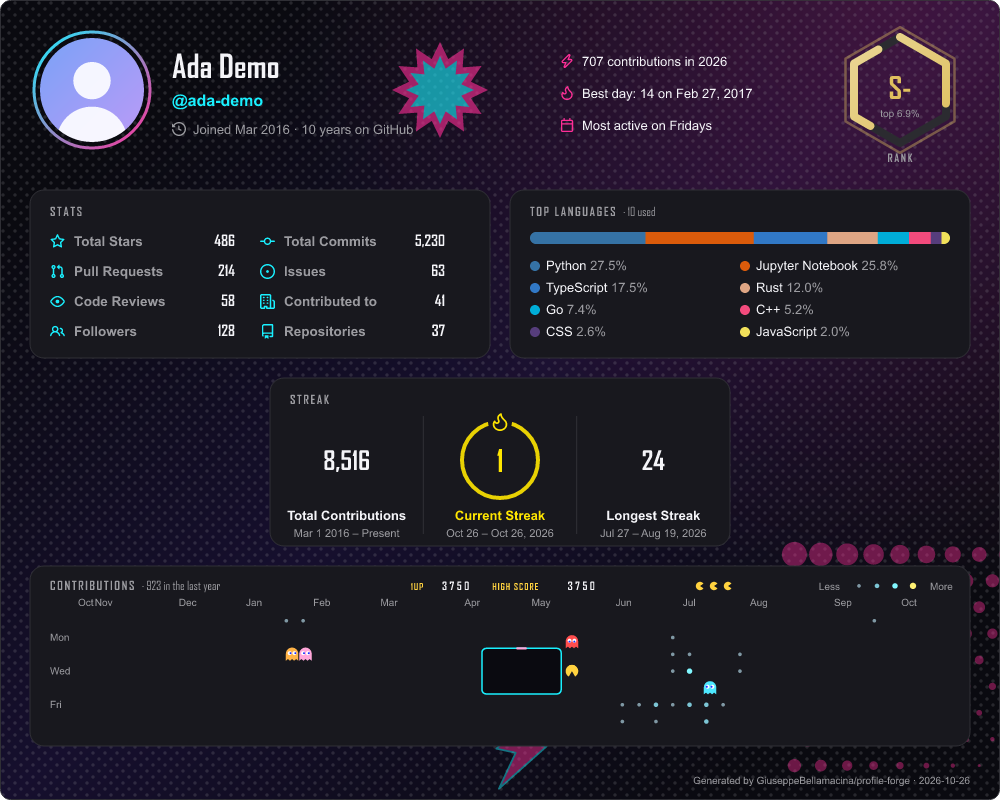
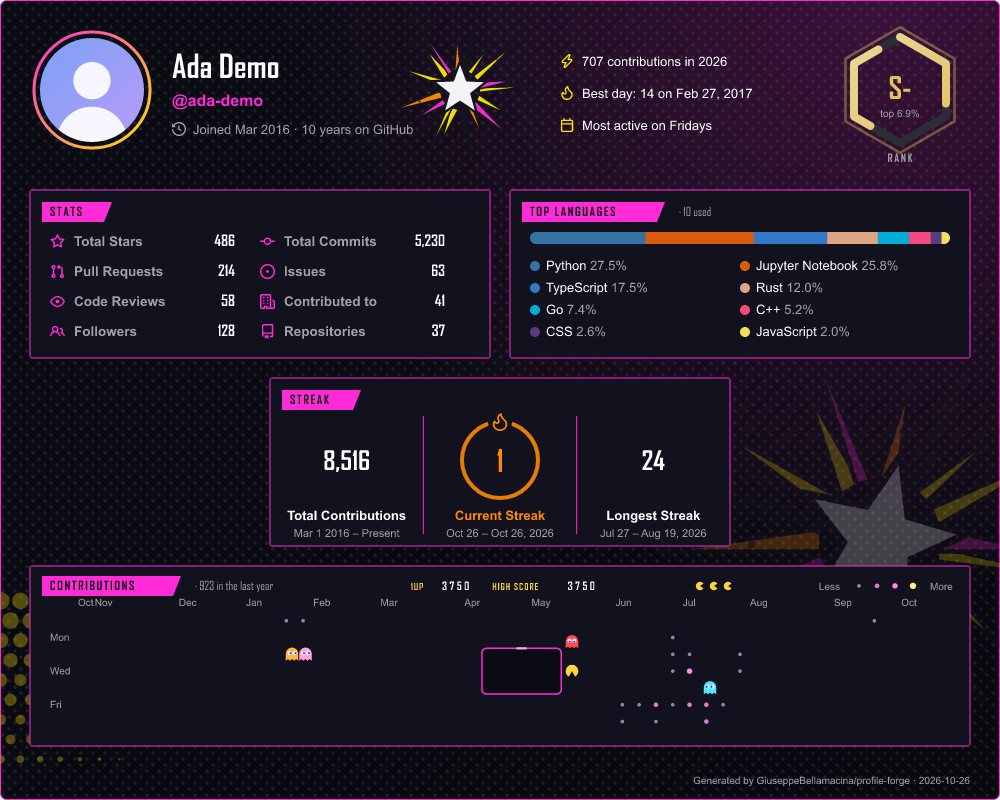
hero-x after the key art (white, black outlines, shards of magenta/yellow/orange/blue) with a night version, the shards motif, Pac-Man dots darkened on light cards, art fades in complete in static frames

diff --git a/src/render.js b/src/render.js
@@ -880,7 +880,8 @@ function heatmapSection(d, X, W = 940) {
         const [cx, cy] = centre(w, i);
         const lv = maze.pellet[k];
         const power = maze.power.has(k);
-        const col = mix(c.heat[lv], "#ffffff", power ? 0.7 : 0.45);
+        const light = c.base === "light"; // on a light card the dots are darkened, not lightened, or they vanish
+        const col = mix(c.heat[lv], light ? "#000000" : "#ffffff", power ? (light ? 0.25 : 0.7) : light ? 0.25 : 0.45);
         const pulse = power ? A.loop({ "0%,100%": "opacity:1", "50%": "opacity:.3" }, { dur: 0.7, ease: "steps(1)" }) : "";
         const dotSvg = `<circle cx="${r3(cx)}" cy="${r3(cy)}" r="${power ? 4.8 : r3(1.4 + lv * 0.45)}" fill="${col}"${pulse}><title>${n} · ${key}</title></circle>`;
         const eats = eatT.get(k);
@@ -1057,7 +1058,7 @@ function heatmapSection(d, X, W = 940) {
     <text x="${840 + W - 940}" y="698" text-anchor="end" font-size="10" fill="${c.muted}">${esc(tr("less"))}</text>
     ${
       pac
-        ? [1, 2, 3, 4].map((lv, i) => `<circle cx="${r3(846 + W - 940 + 13 + i * 18)}" cy="693.9" r="${r3(1.4 + lv * 0.45)}" fill="${mix(c.heat[lv], "#ffffff", 0.45)}"/>`).join("") // the pellets: a bigger dot for a busier day
+        ? [1, 2, 3, 4].map((lv, i) => `<circle cx="${r3(846 + W - 940 + 13 + i * 18)}" cy="693.9" r="${r3(1.4 + lv * 0.45)}" fill="${mix(c.heat[lv], c.base === "light" ? "#000000" : "#ffffff", c.base === "light" ? 0.25 : 0.45)}"/>`).join("") // the pellets: a bigger dot for a busier day
         : c.heat.map((h, i) => cellShape(o.cell === "mixed" ? "square" : o.cell, 846 + W - 940 + i * 16 - 0.75, 687.25, h, { lvl: i, dim: c.heat[0] })).join("")
     }
     <text x="${930 + W - 940}" y="698" font-size="10" fill="${c.muted}">${esc(tr("more"))}</text>
@@ -1526,9 +1527,10 @@ export function render(d, { theme = "dark", t, fontCss = "", k = normalize(), co
   const bgImage = bg.image && images[bg.image]
     ? `<image href="${images[bg.image]}" width="${W}" height="${SH}" opacity="${bg.imageOpacity}" preserveAspectRatio="xMidYMid ${bg.imageFit === "contain" ? "meet" : "slice"}"/>`
     : "";
-  // the art comes in last: after the sections have finished appearing (their rows come one after the other, each one drawing its own parts)
+  // the art comes in last: after the sections have finished appearing (their rows come one after the other, each one drawing its own parts),
+  // but early enough to be complete in the static frame (PNG / GIF), which shows the animation at DURATION
   A.dt = 0;
-  const artIn = k.decor.length ? A.a(Math.max(0, ...items.map((it) => it.delay)) + 3, 0.8, { o: 0 }) : "";
+  const artIn = k.decor.length ? A.a(Math.min(Math.max(0, ...items.map((it) => it.delay)) + 3, DURATION - 0.8), 0.8, { o: 0 }) : "";
   const over = k.decor.some((it) => it.layer === "front") ? `<g clip-path="url(#dc-clip)"><g${artIn}>${decorSvg("front")}</g></g>` : ""; // built here: its loops add to the style block
   const under = `${bgImage}${bg.glow ? card("url(#glow)") : ""}${pat ? `<g opacity="${bg.patternOpacity ?? pat[3]}">${card("url(#pat)")}</g>` : ""}${k.decor.some((it) => it.layer === "back") ? `<g${artIn}>${decorSvg("back")}</g>` : ""}`;
   return `<svg xmlns="http://www.w3.org/2000/svg" width="${W}" height="${SH}" viewBox="0 0 ${W} ${SH}" font-family="${FB}" role="img" aria-label="GitHub profile card for ${esc(d.login)}">

diff --git a/src/motifs.js b/src/motifs.js
@@ -3,6 +3,7 @@
 // comic halftones, gothic ornaments...) that the themes can lean on. render.js places, scales, rotates and fades them.
 
 import { ANIMATED } from "./motifs-animated.js";
+import { mix } from "./themes.js";
 
 const r2 = (x) => Math.round(x * 100) / 100;
 const polar = (cx, cy, r, deg) => [r2(cx + r * Math.cos((deg * Math.PI) / 180)), r2(cy + r * Math.sin((deg * Math.PI) / 180))];
@@ -38,6 +39,19 @@ export const MOTIFS = {
     const [x1, y1] = polar(50, 50, near, deg), [x2, y2] = polar(50, 50, far, deg);
     return `<path d="M${x1} ${y1}L${x2} ${y2}" stroke-width="${k % 2 ? 1.2 : 2.4}"/>`;
   }).join("")}</g><circle cx="50" cy="50" r="5" fill="${b}"/>`,
+  /** an explosion of shards round a white star, black outlines: the two colours, a yellow and an orange (a pop-art key visual) */
+  shards: (a, b) => {
+    const ink = "#14141c";
+    const fills = [a, "#ffe600", b, "#ff8a00", ink]; // the two colours, and a yellow and an orange of the key art
+    const rays = Array.from({ length: 18 }, (_, k) => {
+      const deg = k * 20 + (k % 3) * 3, far = k % 2 ? 36 : 48 - (k % 4) * 2, half = 7 + (k % 3) * 2;
+      const [x1, y1] = polar(50, 50, 13, deg - half), [x2, y2] = polar(50, 50, 13, deg + half), [tx, ty] = polar(50, 50, far, deg + (k % 2 ? 4 : -3));
+      return `<path d="M${x1} ${y1}L${tx} ${ty}L${x2} ${y2}Z" fill="${fills[k % 5]}" stroke="${ink}" stroke-width="1" stroke-linejoin="miter"/>`;
+    }).join("");
+    const star = Array.from({ length: 10 }, (_, k) => polar(50, 50, k % 2 ? 8 : 19, -90 + 36 * k).join(" ")).join("L");
+    const dots = Array.from({ length: 14 }, (_, k) => { const [x, y] = polar(50, 50, 24 + (k % 5) * 4, k * 26 + 8); return `<circle cx="${x}" cy="${y}" r="0.9" fill="${ink}" opacity=".55"/>`; }).join("");
+    return `${rays}${dots}<path d="M${star}Z" fill="#ffffff" stroke="${ink}" stroke-width="1.6" stroke-linejoin="miter"/>`;
+  },
   /** a pop-art starburst */
   burst: (a, b) => {
     const pts = (r1, r2_) => Array.from({ length: 24 }, (_, k) => polar(50, 50, k % 2 ? r2_ : r1, k * 15).join(" ")).join("L");

diff --git a/src/themes.js b/src/themes.js
@@ -104,7 +104,9 @@ const THEMES = {
   amber: dv("dark", "#0d0800", "#ffb000", "#ffcc33", "#ff8c00", "#ffe066", { muted: "#b37a00", heat: ["#1f1500", "#4d3300", "#805500", "#cc8800", "#ffcc33"] }),
   paper: dv("light", "#fbfaf7", "#1c1c1c", "#2b2b2b", "#8a6d3b", "#b4532a", { heat: ["#ecebe6", "#c9c7bf", "#97948a", "#5e5b53", "#1c1c1c"] }),
   // Inspired by the look of five series (palettes and mood, nothing copied): pair them with the presets of the same name
-  "hero-x": dv("dark", "#0a0a10", "#f4f4f8", "#19f0ff", "#ff2e97", "#ffe600", { bgGradient: "135,#0a0a10,#160f2e,#0a0a10", heat: ["#16161f", "#17435a", "#1096b3", "#19f0ff", "#ffe600"] }),
+  // pop art after the key art of To Be Hero X: white, black outlines and shards of magenta, yellow, orange and blue
+  "hero-x": dv("light", "#fbfbff", "#14141c", "#e0149c", "#1b8ef2", "#ff7a00", { panel: "#ffffff", border: "#14141c", muted: "#5a5a6e", heat: ["#efeaf7", "#ffe94d", "#ffb000", "#ff6a00", "#e0149c"] }),
+  "hero-x-night": dv("dark", "#0b0b14", "#ffffff", "#ff2bd6", "#ffe600", "#ff8a00", { panel: "#12121f", border: "#ff2bd6", heat: ["#17172a", "#4a1a6b", "#c0149c", "#ff2bd6", "#ffe600"] }),
   "shadow-monarch": dv("dark", "#080118", "#e6e0ff", "#7c4dff", "#35d0ff", "#c77dff", { bgGradient: "150,#080118,#170d30,#080118", panel: "#0d0a15", snake: "#efd7da", frame: "#6a43db", heat: ["#150d26", "#2a1a52", "#4b2fa3", "#7c4dff", "#35d0ff"] }),
   "plus-ultra": dv("dark", "#0b1a3a", "#fff7e0", "#ffd21f", "#ff3b30", "#ff7a1a", { bgGradient: "160,#0b1a3a,#123073,#0b1a3a", heat: ["#13244d", "#1c3f8f", "#2a64d6", "#6aa5ff", "#ffd21f"] }),
   dante: dv("dark", "#0e0708", "#f3ece8", "#d11a2a", "#cfd3dc", "#ffb02e", { bgGradient: "145,#0e0708,#2a0b10,#0e0708", heat: ["#1b0c0e", "#4a0f16", "#8f1420", "#d11a2a", "#ff6a4d"] }),

diff --git a/GUIDE.md b/GUIDE.md
@@ -207,7 +207,7 @@ More patterns: `halftone`, `scanlines`, `stripes`, `hex`, `circuit`, `crosses`.
 
 Up to 12 pieces of art on the card, each one a **motif** of the library or an **image** of yours (the file is embedded in the card, like the tech stack icons). The motifs are original line art drawn in the colours of the theme; they are in the spirit of a style (neon city, system windows, comic halftones, gothic ornaments), not copies of anything.
 
-<img src="docs/guide/decor-motifs.png" alt="the 17 motifs: lightning skyline circuit glitch halftone speedlines burst runes hud wings blade moon stars hexgrid reticle bolt barcode">
+<img src="docs/guide/decor-motifs.png" alt="the 18 motifs: lightning shards skyline circuit glitch halftone speedlines burst runes hud wings blade moon stars hexgrid reticle bolt barcode">
 
 ```json
 { "card": { "decor": [
@@ -219,7 +219,7 @@ Up to 12 pieces of art on the card, each one a **motif** of the library or an **
 
 | Key | Values | Default |
 |---|---|---|
-| `motif` or `image` | a motif name (`lightning` `skyline` `circuit` `glitch` `halftone` `speedlines` `burst` `runes` `hud` `wings` `blade` `moon` `stars` `hexgrid` `reticle` `bolt` `barcode`) or the path of an image | one of them is required |
+| `motif` or `image` | a motif name (`lightning` `shards` `skyline` `circuit` `glitch` `halftone` `speedlines` `burst` `runes` `hud` `wings` `blade` `moon` `stars` `hexgrid` `reticle` `bolt` `barcode`) or the path of an image | one of them is required |
 | `x` `y` | the centre, in percent of the card **width** (1 = 10 px): `x` from the left, `y` from the top, or from the bottom with `anchor: "bottom"`; −50–150 and −50–200 | `50` `20` |
 | `anchor` | `top` `bottom` | `top` |
 | `size` | the width of the piece, percent of the card width, 2–150 | `20` |
@@ -688,7 +688,7 @@ A list (`["dracula", "nord"]` → `profile-forge-dracula.svg`, `profile-forge-no
 { "themes": { "dark": "dracula", "light": "gruvbox-light" } }
 ```
 
-There are 79 built-in themes. Previews of all of them are in [`docs/themes/`](docs/themes).
+There are 80 built-in themes. Previews of all of them are in [`docs/themes/`](docs/themes).
 
 | | |
 |---|---|
@@ -702,7 +702,7 @@ There are 79 built-in themes. Previews of all of them are in [`docs/themes/`](do
 | **More editor themes** | `tokyo-night` `tokyo-night-storm` `tokyo-night-day` `kanagawa-wave` `moonlight` `poimandres` `vesper` `rose-pine-moon` `rose-pine-dawn` `night-owl-light` `andromeda` `panda` `everblush` `cyberdream` `nord-light` |
 | **Gradient** | `ambient-gradient` `sunset-gradient` `aurora-gradient` `ocean-gradient` `candy-gradient` |
 | **Originals** | `sakura` `lava` `glacier` `forest-night` `coffee` `amber` `paper` |
-| **Inspired by a series** | `hero-x` `shadow-monarch` `plus-ultra` `dante` `edgerunner` `edgerunner-red` (palettes and mood only; each has a preset with art on the card) |
+| **Inspired by a series** | `hero-x` `hero-x-night` `shadow-monarch` `plus-ultra` `dante` `edgerunner` `edgerunner-red` (palettes and mood only; each has a preset with art on the card) |
 
 Dark themes use the dark trophy palette and light themes the light one (`base`).
 

diff --git a/presets/README.md b/presets/README.md
@@ -26,7 +26,7 @@ Every preset defines a `dark` and a `light` slot, so the README `<picture>` snip
 | [`edgerunner-red`](edgerunner-red.json) | Dark red with yellow labels, like the character cards of the series: notched panels with tag titles, a circuit pattern, a system window, a barcode and glitch bars; shield rank, glowing snake |
 | [`shadow-monarch`](shadow-monarch.json) | Violet and electric blue, a hex pattern, a rune circle and system window; shield rank, glowing snake |
 | [`dante`](dante.json) | Black, crimson and silver, faint wings and blades; shield rank |
-| [`hero-x`](hero-x.json) | Pop-art halftone in cyan, magenta and yellow, a burst and a bolt; open Pac-Man maze |
+| [`hero-x`](hero-x.json) | After the key art of To Be Hero X: white, black outlines and shards of magenta, yellow, orange and blue (a dark night version too), square panels with tag titles, halftone and exploding shards; open Pac-Man maze |
 | [`plus-ultra`](plus-ultra.json) | Comic blue, red and yellow, speed lines and a starburst; rainbow snake |
 
 `portfolio` reads its tech stack icons from `assets/img/` (relative to `config.json`): copy [`assets/img/`](assets/img) next to your config, and replace the placeholder text, URLs and `your-login`.

diff --git a/README.md b/README.md
@@ -7,7 +7,7 @@
 [![License: MIT](https://img.shields.io/badge/license-MIT-blue.svg)](LICENSE)
 ![Node](https://img.shields.io/badge/node-%E2%89%A520-339933?logo=node.js&logoColor=white)
 ![Dependencies](https://img.shields.io/badge/dependencies-0-brightgreen)
-![Themes](https://img.shields.io/badge/themes-79-8b5cf6)
+![Themes](https://img.shields.io/badge/themes-80-8b5cf6)
 ![Locales](https://img.shields.io/badge/languages-8-f59e0b)
 
 [**Web configurator**](https://giuseppebellamacina.github.io/profile-forge-configurator/) · [**Quick start**](#quick-start-github-action) · [**Full guide**](GUIDE.md) · [**Presets**](presets) · [**Trophies**](TROPHIES.md) · [**Themes**](docs/themes)
